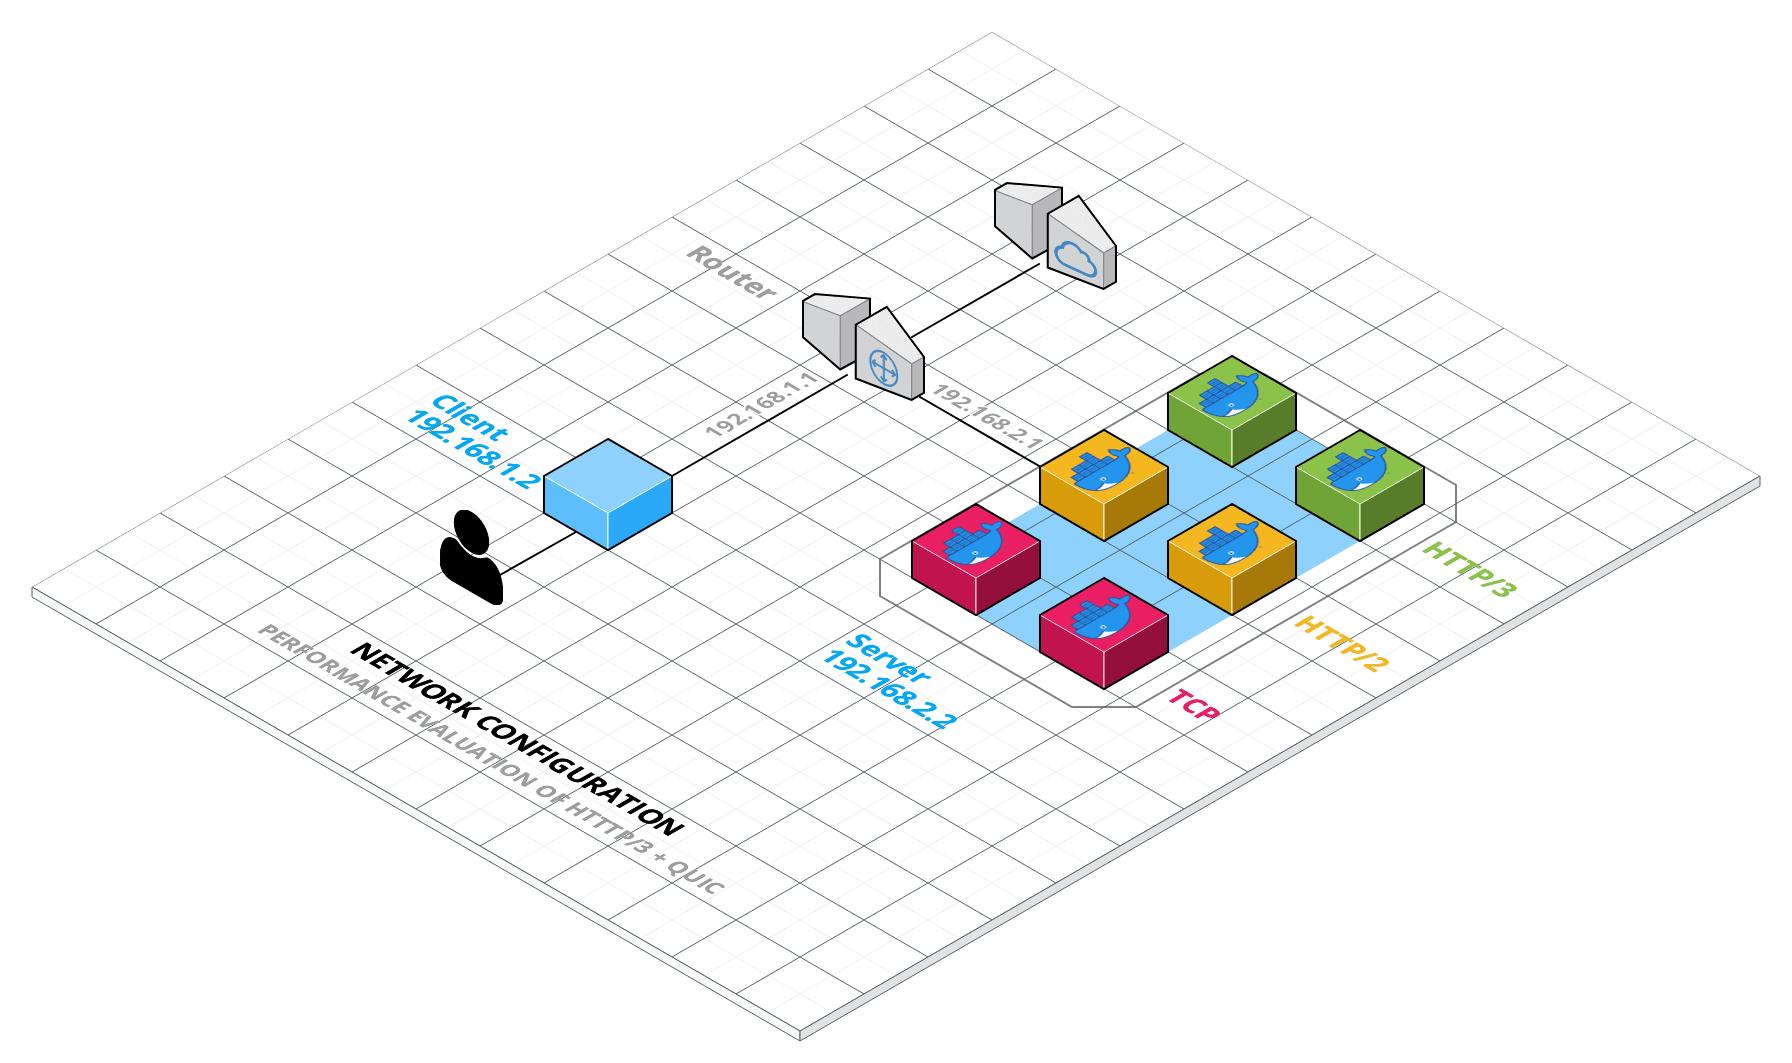
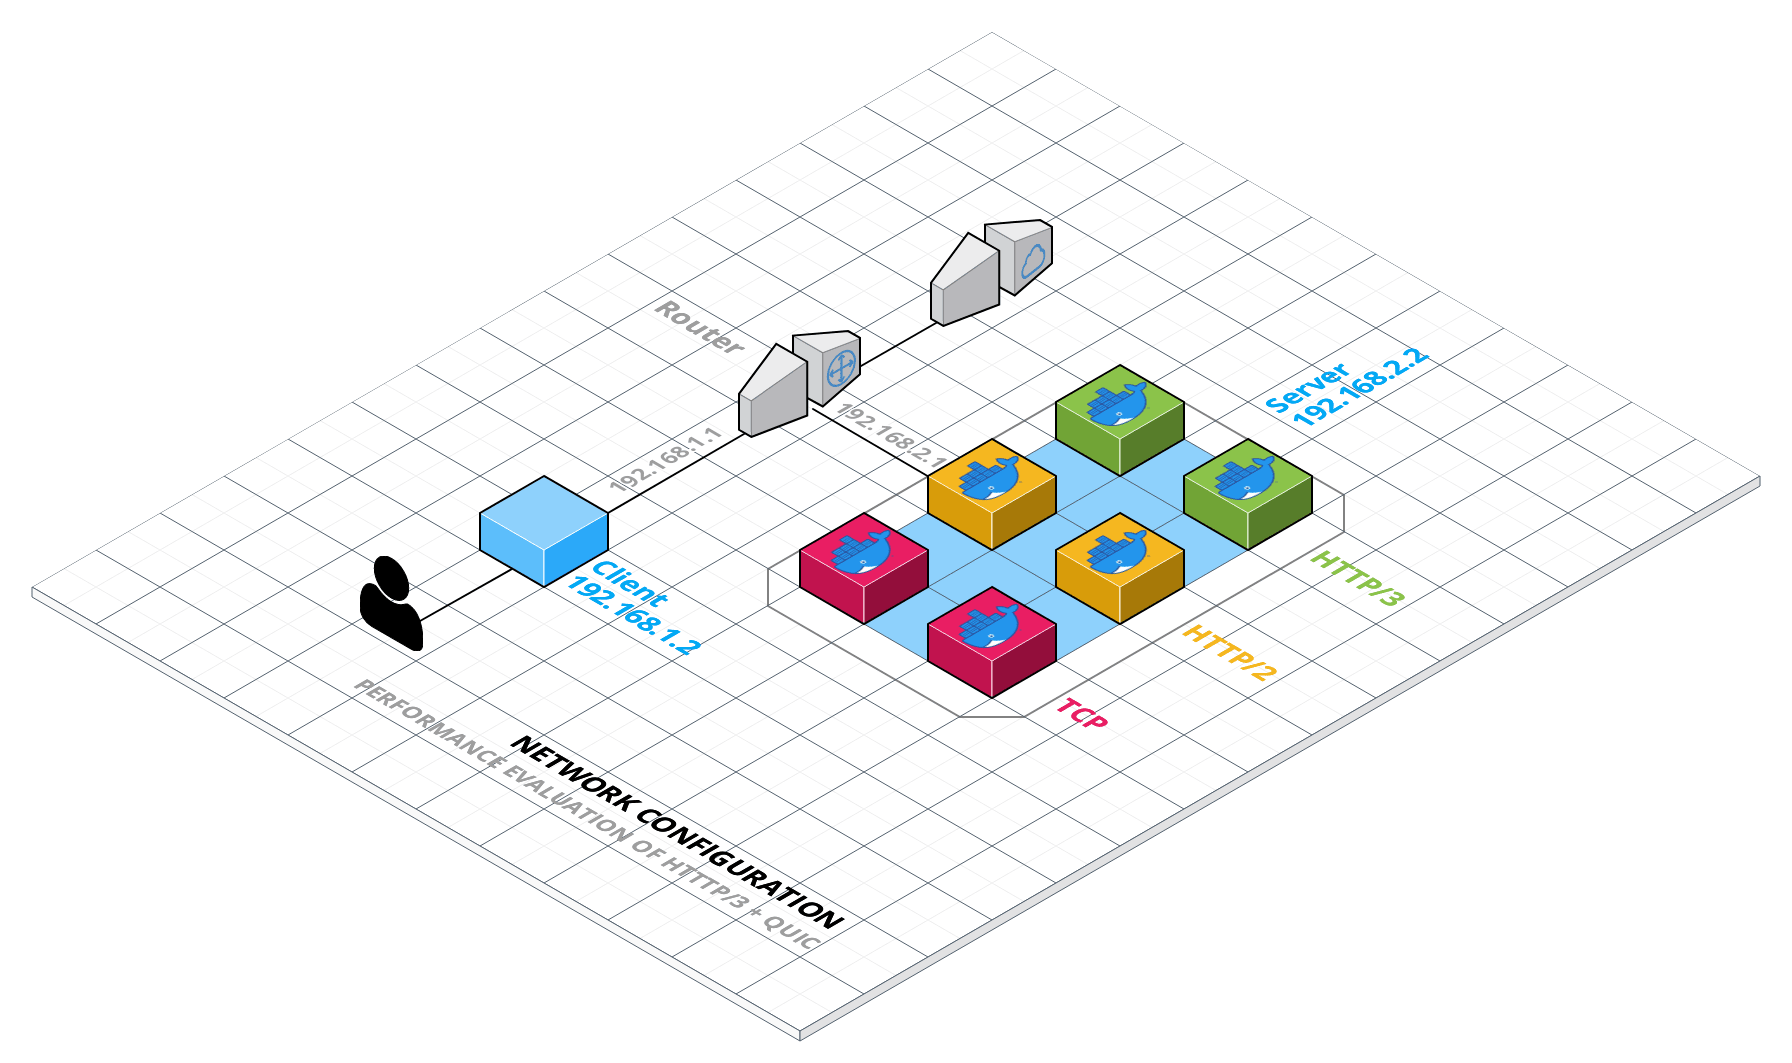
Readme and image update

diff --git a/README.md b/README.md
@@ -108,8 +108,6 @@ http {
         ssl_protocols TLSv1.3;
         ssl_early_data on;
 
-
-
         # Request buffering in not currently supported for HTTP/3.
         proxy_request_buffering off;
 
@@ -126,7 +124,7 @@ http {
 
 ##### SSL Certificate 🔐
 
-As shown at the bottom of the configuration file, TLS encryption is needed to use the HTTP/3 modded version of NGINX. We did a little bit of research and found out that we couldn't use self-signed SSL certificates with QUIC. Only trusted SSL certificates issued by a CA work.
+As shown at the end of the configuration file, TLS encryption is needed to use the HTTP/3 modded version of NGINX. We did a little bit of research and found out that we couldn't use self-signed SSL certificates with QUIC. Only trusted SSL certificates issued by a CA work.
 We used Let's Encrypt for generating a valid SSL/ TLS certificate that works with QUIC, in particular we used the following commands outside Docker and than copied the necessary files inside the container:
 
 ```bash
@@ -142,14 +140,9 @@ The second Docker image (the one responsible for the video streaming) is based o
 The video streaming protocol we decided to use il HLS. We chose it for its large diffusion and for its performance. At first, HLS was exclusive to iPhones, but today almost every device supports this protocol, so it has become a proprietary format. As the name implies, HLS delivers content via standard HTTP web servers. This means that no special infrastructure is needed to deliver HLS content. Any standard web server or CDN will work. Additionally, content is less likely to be blocked by firewalls with this protocol, which is a plus. HLS can play video encoded with the H.264 or HEVC/H.265 codecs.
 With all this in mind, we thought it could represent well a real streaming scenario.
 For en(de)codig the demo video file we used `ffmpeg`, looping the video for creating a continuous streaming.
-The `nginx.conf` we used is the following:
+We moodified the following section of `nginx.conf`:
 
 ```conf
-worker_processes  auto;
-events {
-    worker_connections  1024;
-}
-
 # RTMP configuration
 rtmp {
     server {
@@ -227,7 +220,15 @@ In order to create specific containers for TPC, HTTP/2 and HTTP/3 we just modifi
 
 ### Network configuration 🌍
 
-aaa
+In order to simulate a more realistic scenario, we decided to use different subnets: one for the client (that will do the performance evaluation) and one for the server (that will contain the 6 docker images).
+As shown in the image above, the router has 3 interfaces: one for each LAN and one for connecting to the Internet Gateway (Vagrant Management), `eth0`. All the information about the subnets are summarized in the table below:
+
+| Device | Interface | IP address  | Subnet |
+| ------ | --------- | ----------- | ------ |
+| Router | eth1      | 192.168.1.1 | 1      |
+| Client | eth1      | 192.168.1.2 | 1      |
+| Router | eth2      | 192.168.2.1 | 2      |
+| Server | eth1      | 192.168.2.2 | 2      |
 
 ## Performance evaluation ⏱
 
